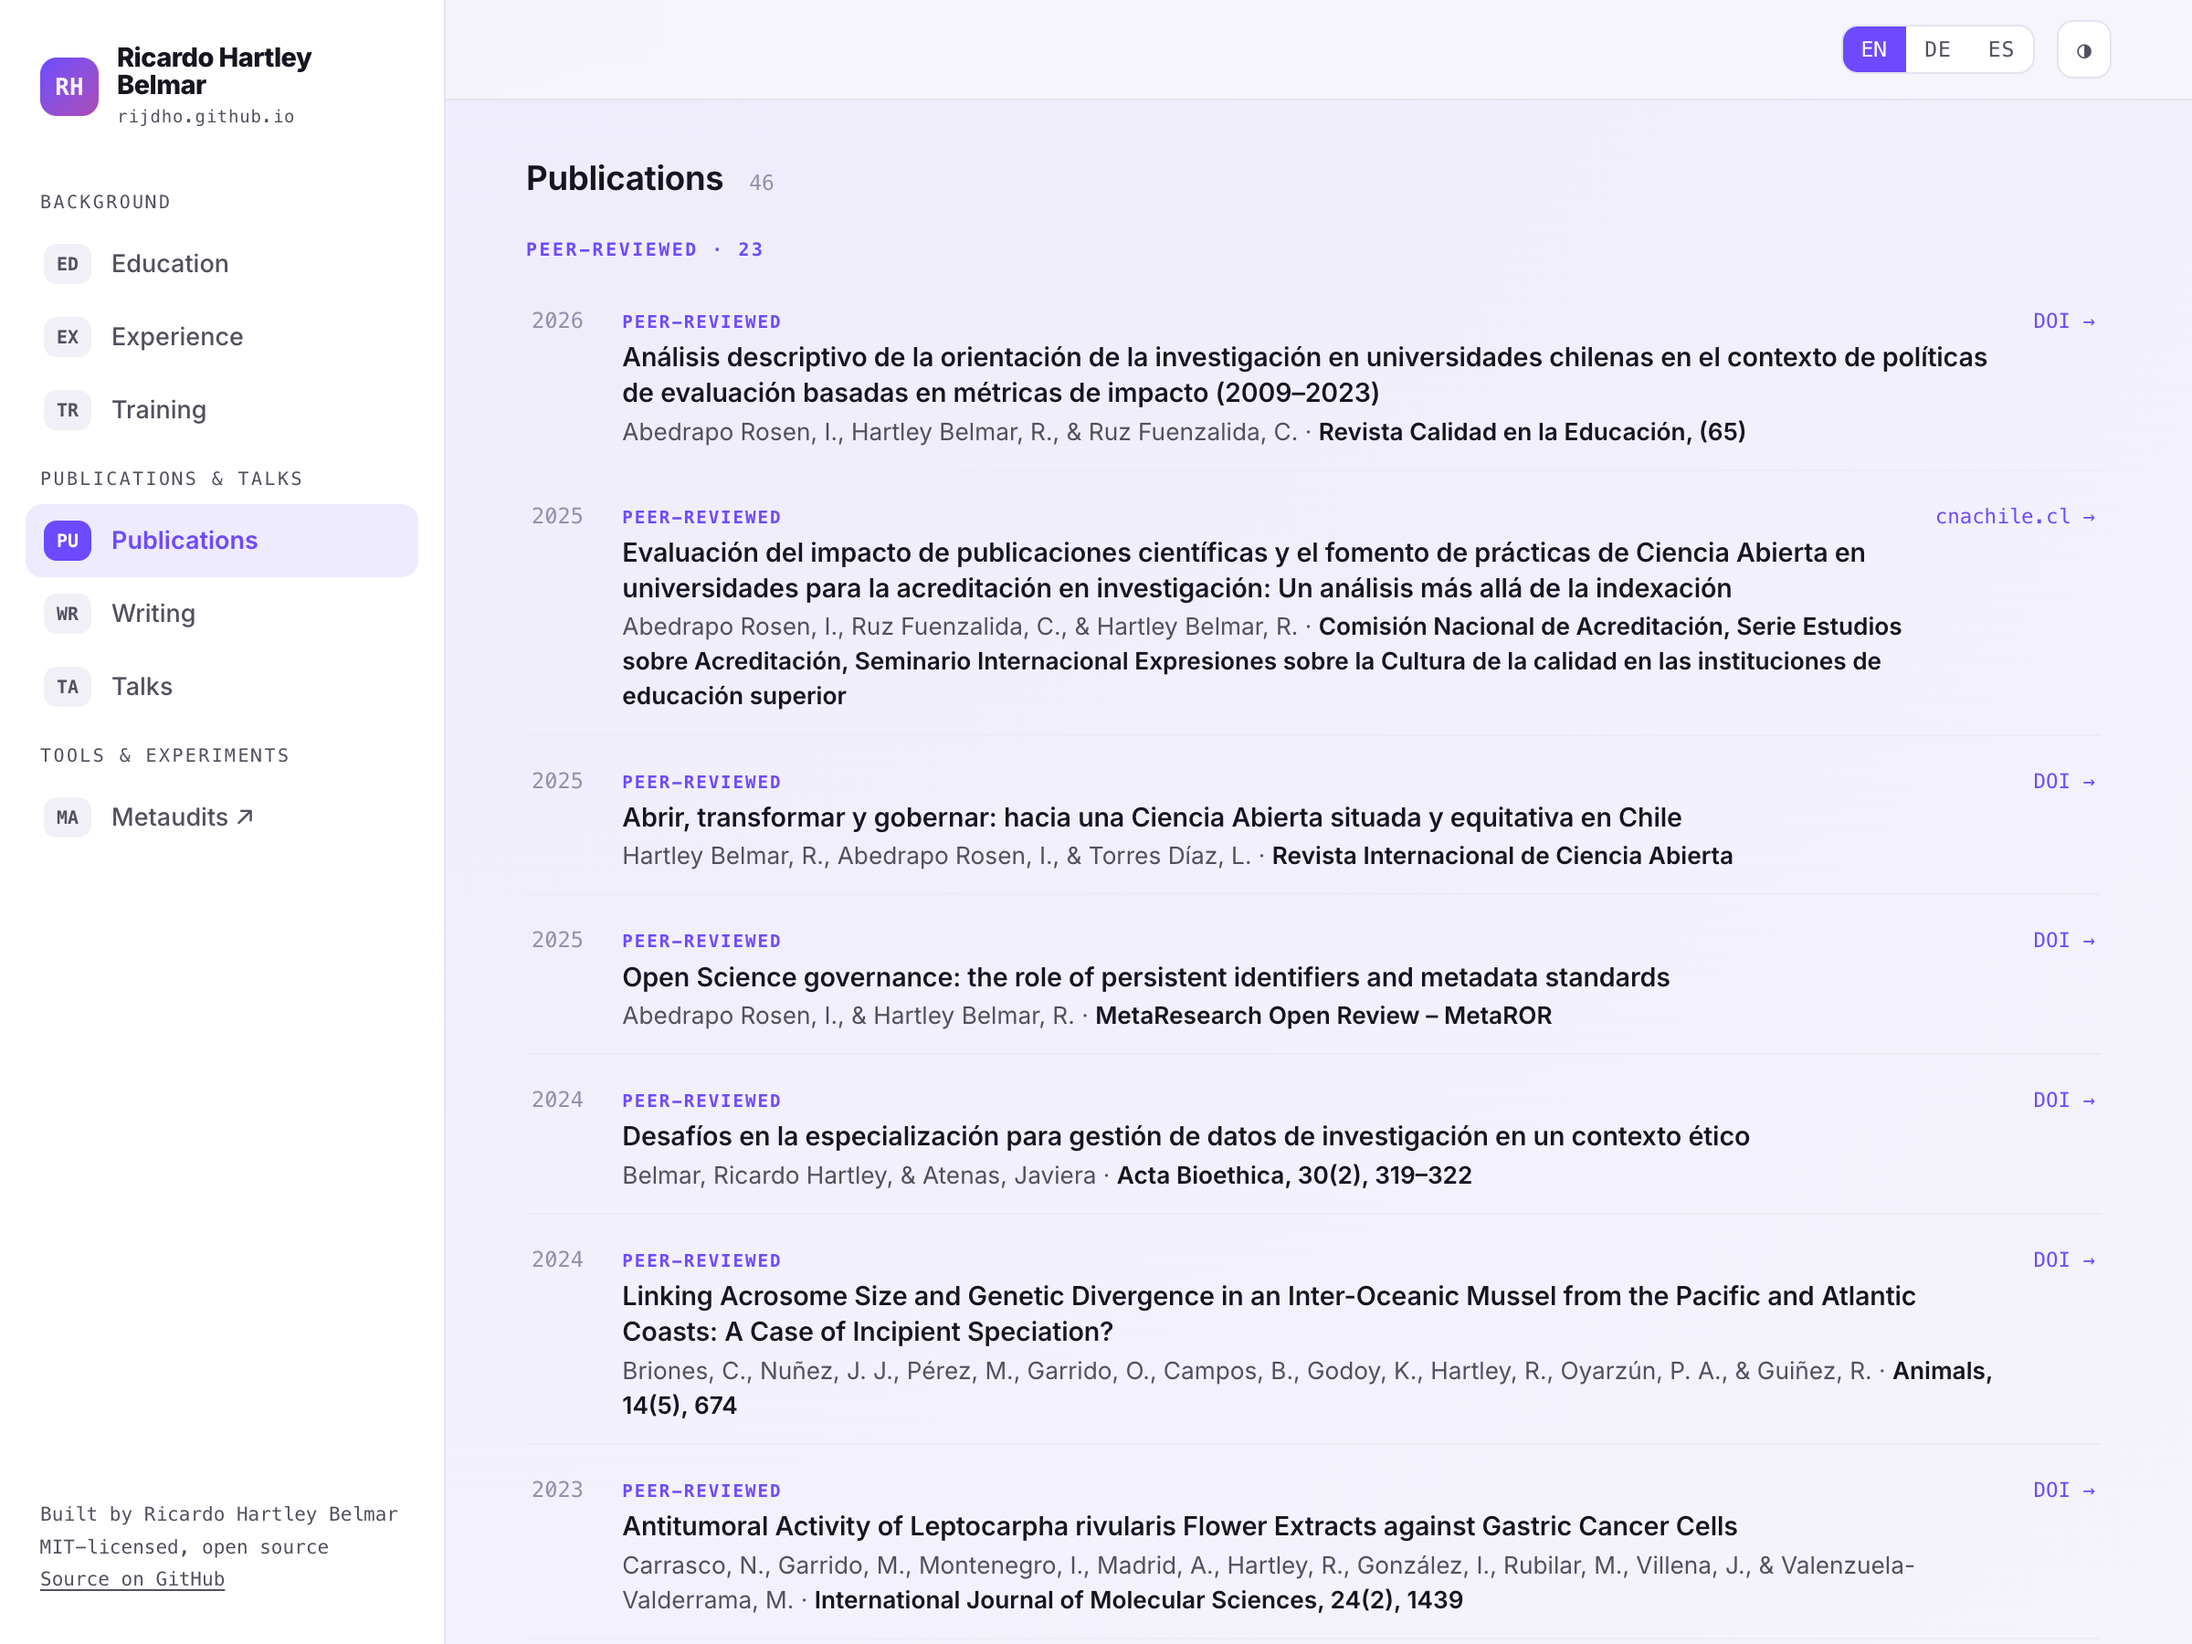
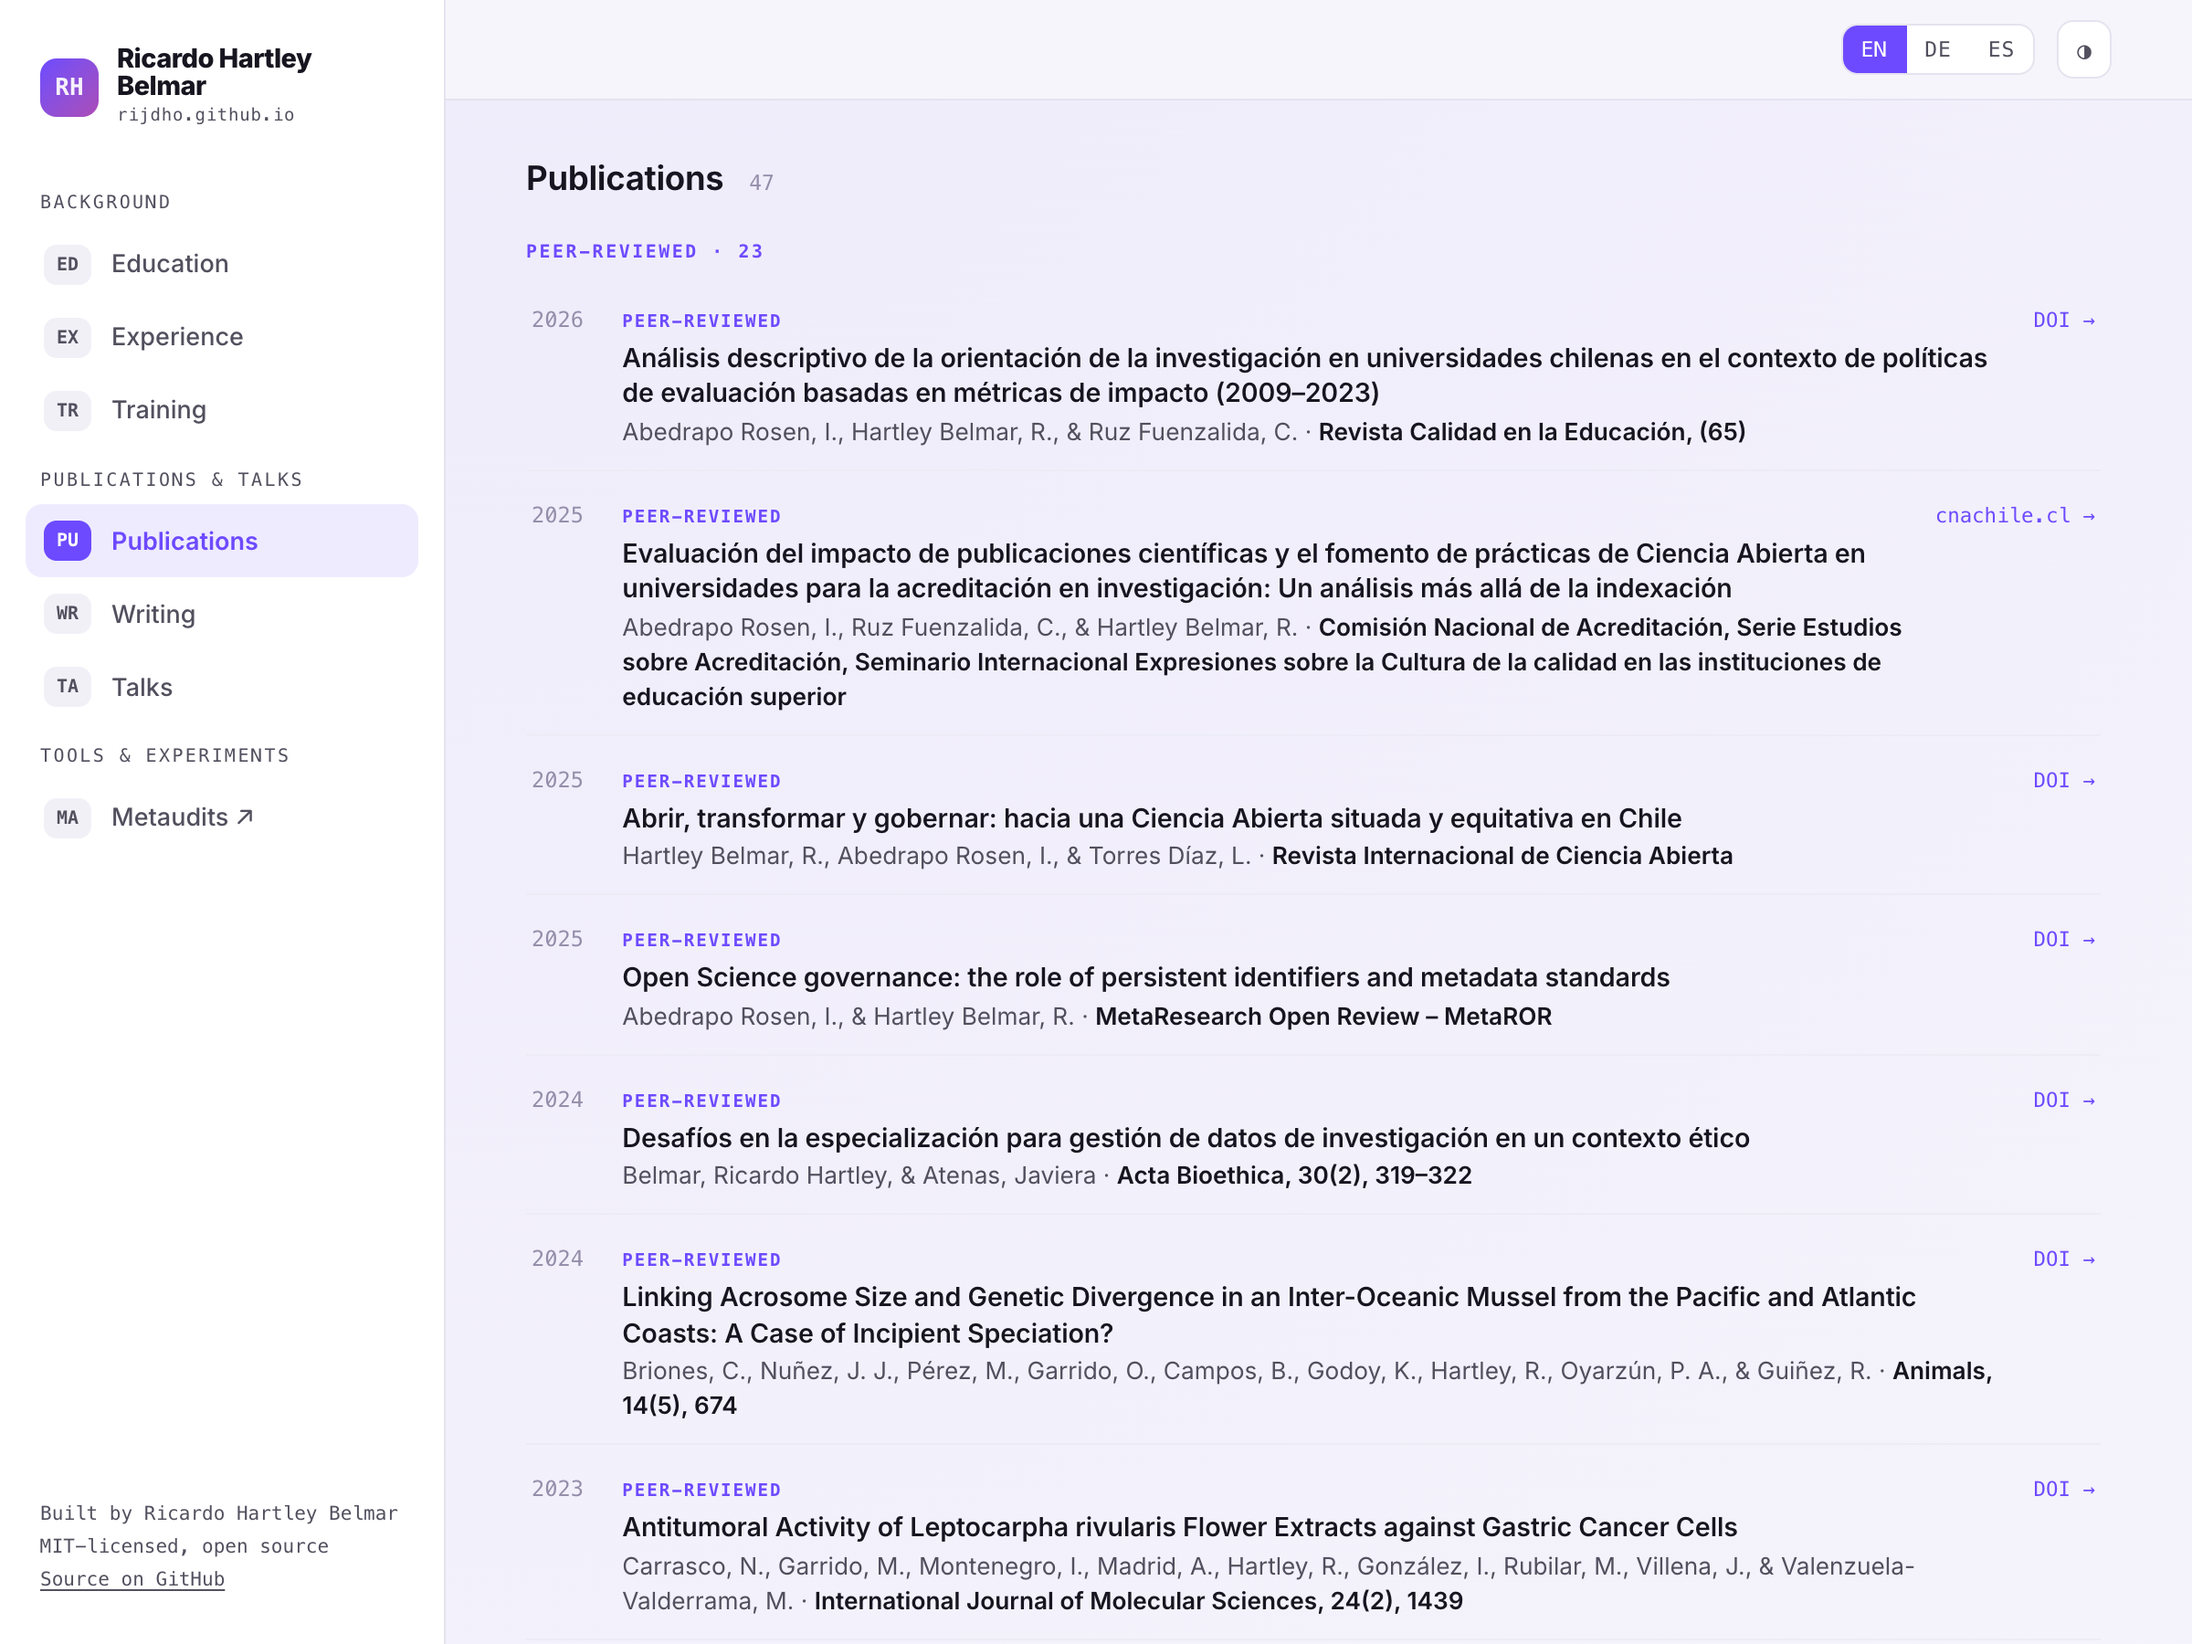
Add Actionable SMP to the tool cloud and the fteval preprint on CoARA action plans
The preprint links to its eprint page: its DOI (10.22163/fteval.2026.771) is not yet
registered at doi.org. README counts and screenshots regenerated (24 ovals, 47 publications).

diff --git a/README.md b/README.md
@@ -13,25 +13,25 @@ from this origin.
 Available in **English, German and Spanish** (auto-detected, switchable): interface and
 content both, including every long description.
 
-![The tool cloud: 23 ovals grouped into four colour-coded topics, Metadata quality 7,
-Open science policy & assessment 6, Infrastructure & AI 8, Science communication 2. Related projects touch
+![The tool cloud: 24 ovals grouped into four colour-coded topics, Metadata quality 7,
+Open science policy & assessment 7, Infrastructure & AI 8, Science communication 2. Related projects touch
 rather than repel, so FAIR Metadata Check (Extended) sits against FAIR Metadata Check. A dashed outline marks a
-tool whose source is public on GitHub, and a note in the corner says so. Nine ovals carry a Zenodo concept DOI
+tool whose source is public on GitHub, and a note in the corner says so. Ten ovals carry a Zenodo concept DOI
 under the name: FAIR Metadata Check 10.5281/zenodo.21492530, ORCID Affiliation Finder
 10.5281/zenodo.22227424, Research Assessment Reform Planner 10.5281/zenodo.21492548, Value of Open Research Information
 10.5281/zenodo.22231440, Pollen 10.5281/zenodo.22685893, National Metadata Audits 10.5281/zenodo.23498571,
-ORCID Membership 10.5281/zenodo.23498577, Beyond Articles 10.5281/zenodo.23498567 and Actionable DMP
-10.5281/zenodo.23498569.](docs/hub-cloud.png)
+ORCID Membership 10.5281/zenodo.23498577, Beyond Articles 10.5281/zenodo.23498567, Actionable DMP
+10.5281/zenodo.23498569 and Actionable SMP 10.5281/zenodo.23797138.](docs/hub-cloud.png)
 
 ## The three views
 
 - **The hub** (`index.html`): two columns. The landing shows the name and headline with the
-  23 tools and experiments under them, as a cloud of ovals grouped by topic (drag, filter,
+  24 tools and experiments under them, as a cloud of ovals grouped by topic (drag, filter,
   click for a description and, where there is one, the link). The rail on the left opens the rest of the CV one section at a
   time: education, experience and training, then publications, writing and talks.
 ![The publications section opened from the rail: the rail on the left lists Background,
 Publications & talks and a link to Metaudits, with Publications highlighted. The main column
-shows the heading Publications 46, then the peer-reviewed group, each row labelled
+shows the heading Publications 47, then the peer-reviewed group, each row labelled
 "Peer-reviewed" above its title. The chip on the right names what the link actually resolves
 to: "DOI" only for a real doi.org address, otherwise the bare host, so the first row, the 2026
 paper in Revista Calidad en la Educación, reads DOI and the second, the CNA seminar paper,

diff --git a/CV.es.md b/CV.es.md
@@ -146,6 +146,7 @@ Profesional de apoyo para la acreditación de programas de postgrado, en la Vice
 
 ### Preprints
 
+- Hartley Belmar, R., & Schöpf, V. (2026). [What CoARA Action Plans Commit To](https://repository.fteval.at/id/eprint/853/). *fteval Preprints, working paper (submitted)*.
 - Hartley, R., Priego, E., Tobar, D., Pérez Comisso, M., & Gainza, C. (2017). [¿Abrir o no abrir? Nuevos pasos del Movimiento Open en Chile](https://doi.org/10.22541/au.151379546.63292744). *Authorea*.
 - Priego, E., Posada, A., Hartley, R., Rodríguez Ortega, N., Fiormonte, D., Gil, A., Logan, C., Alperin, J. P., Mounce, R., Eglen, S. J., Miranda Trigueros, E., Lawson, S., Gatto, L., Ramos, A., & Pérez, N. (2017). [Scholarly Publishing, Freedom of Information and Academic Self-Determination: The UNAM-Elsevier Case](https://doi.org/10.22541/au.151160332.22737207). *Authorea*.
 
@@ -320,6 +321,11 @@ Completitud de los metadatos de los resultados de investigación chilenos que no
 
 Escribe un plan de gestión de datos como archivo accionable por máquina, válido según el RDA DMP Common Standard v1.2, respondiendo las quince preguntas de los requisitos básicos de Science Europe, y contrasta lo que el plan dice de cada dataset con el registro del dataset en DataCite, cuando DataCite lo tiene. El plan se descarga como dmp.json y como DMP.md, en las secciones de Science Europe o en las de la plantilla de Horizon Europe; la misma revisión corre desde la línea de comandos y como GitHub Action.
 
+### [Actionable SMP: Write and Check a Software Management Plan](https://rijdho.github.io/smp-template/)
+*Active · 2026 · Software Management Plans, Research software, GitHub Action*
+
+Escribe un plan de gestión de software con las preguntas, los requisitos y los niveles de gestión de la Practical guide to Software Management Plans (Martinez-Ortiz et al., 2023), guardado como smp.json para el repositorio y como SMP.md para las personas, y lo contrasta con el software: cada compromiso que el plan marca como implementado, como una licencia o un archivo de citación, tiene que verse en el repositorio público de GitHub. La misma revisión corre desde la línea de comandos y como GitHub Action que hace fallar el build cuando falta un compromiso.
+
 ### [Pollen: Live Audience Questions](https://pollen.rijdho.org)
 *Active · 2026 · Live polling, Audience response, Teaching, Cloudflare Workers*
 
@@ -327,4 +333,4 @@ Preguntas en vivo durante una clase o un taller: opción múltiple, escalas de v
 
 
 ---
-*Generado desde data/cv.json · 2026-10-22*
+*Generado desde data/cv.json · 2026-11-06*

diff --git a/CV.de.md b/CV.de.md
@@ -146,6 +146,7 @@ Fachkraft zur Unterstützung der Akkreditierung von Postgraduiertenprogrammen im
 
 ### Preprints
 
+- Hartley Belmar, R., & Schöpf, V. (2026). [What CoARA Action Plans Commit To](https://repository.fteval.at/id/eprint/853/). *fteval Preprints, working paper (submitted)*.
 - Hartley, R., Priego, E., Tobar, D., Pérez Comisso, M., & Gainza, C. (2017). [¿Abrir o no abrir? Nuevos pasos del Movimiento Open en Chile](https://doi.org/10.22541/au.151379546.63292744). *Authorea*.
 - Priego, E., Posada, A., Hartley, R., Rodríguez Ortega, N., Fiormonte, D., Gil, A., Logan, C., Alperin, J. P., Mounce, R., Eglen, S. J., Miranda Trigueros, E., Lawson, S., Gatto, L., Ramos, A., & Pérez, N. (2017). [Scholarly Publishing, Freedom of Information and Academic Self-Determination: The UNAM-Elsevier Case](https://doi.org/10.22541/au.151160332.22737207). *Authorea*.
 
@@ -320,6 +321,11 @@ Vollständigkeit der Metadaten chilenischer Forschungsergebnisse jenseits von Ar
 
 Schreibt einen Datenmanagementplan als maschinenverarbeitbare Datei, die dem RDA DMP Common Standard v1.2 entspricht, entlang der fünfzehn Fragen der Kernanforderungen von Science Europe, und prüft, was der Plan über jeden Datensatz sagt, an dessen Eintrag in DataCite, sofern DataCite ihn führt. Der Plan lässt sich als dmp.json und als DMP.md herunterladen, in den Abschnitten von Science Europe oder denen der Horizon-Europe-Vorlage; dieselbe Prüfung läuft auf der Kommandozeile und als GitHub Action.
 
+### [Actionable SMP: Write and Check a Software Management Plan](https://rijdho.github.io/smp-template/)
+*Active · 2026 · Software Management Plans, Research software, GitHub Action*
+
+Schreibt einen Softwaremanagementplan mit den Fragen, Anforderungen und Managementstufen des Practical guide to Software Management Plans (Martinez-Ortiz et al., 2023), gespeichert als smp.json für das Repository und als SMP.md für Menschen, und prüft ihn an der Software: Jede Zusage, die der Plan als umgesetzt markiert, etwa eine Lizenz oder eine Zitationsdatei, muss im öffentlichen GitHub-Repository sichtbar sein. Dieselbe Prüfung läuft auf der Kommandozeile und als GitHub Action, die den Build scheitern lässt, wenn eine Zusage fehlt.
+
 ### [Pollen: Live Audience Questions](https://pollen.rijdho.org)
 *Active · 2026 · Live polling, Audience response, Teaching, Cloudflare Workers*
 
@@ -327,4 +333,4 @@ Live-Fragen während einer Lehrveranstaltung oder eines Workshops: Auswahlfragen
 
 
 ---
-*Generiert aus data/cv.json · 2026-10-22*
+*Generiert aus data/cv.json · 2026-11-06*

diff --git a/CV.en.md b/CV.en.md
@@ -146,6 +146,7 @@ Support professional for the accreditation of postgraduate programmes, working w
 
 ### Preprints
 
+- Hartley Belmar, R., & Schöpf, V. (2026). [What CoARA Action Plans Commit To](https://repository.fteval.at/id/eprint/853/). *fteval Preprints, working paper (submitted)*.
 - Hartley, R., Priego, E., Tobar, D., Pérez Comisso, M., & Gainza, C. (2017). [¿Abrir o no abrir? Nuevos pasos del Movimiento Open en Chile](https://doi.org/10.22541/au.151379546.63292744). *Authorea*.
 - Priego, E., Posada, A., Hartley, R., Rodríguez Ortega, N., Fiormonte, D., Gil, A., Logan, C., Alperin, J. P., Mounce, R., Eglen, S. J., Miranda Trigueros, E., Lawson, S., Gatto, L., Ramos, A., & Pérez, N. (2017). [Scholarly Publishing, Freedom of Information and Academic Self-Determination: The UNAM-Elsevier Case](https://doi.org/10.22541/au.151160332.22737207). *Authorea*.
 
@@ -320,6 +321,11 @@ Metadata completeness of Chilean research outputs other than articles (datasets,
 
 Write a data management plan as a machine-actionable file that validates against the RDA DMP Common Standard v1.2, answering the fifteen questions of Science Europe's core requirements, and check what the plan says about each dataset against the dataset's DataCite record, where DataCite holds it. The plan downloads as dmp.json and as DMP.md, in Science Europe's sections or in those of the Horizon Europe template; the same check runs from the command line and as a GitHub Action.
 
+### [Actionable SMP: Write and Check a Software Management Plan](https://rijdho.github.io/smp-template/)
+*Active · 2026 · Software Management Plans, Research software, GitHub Action*
+
+Write a software management plan with the questions, requirements and management levels of the Practical guide to Software Management Plans (Martinez-Ortiz et al., 2023), saved as smp.json for the repository and as SMP.md for people, and check it against the software: every commitment the plan marks as in place, such as a licence or a citation file, has to be visible in the public GitHub repository. The same check runs from the command line and as a GitHub Action that fails the build when a commitment is missing.
+
 ### [Pollen: Live Audience Questions](https://pollen.rijdho.org)
 *Active · 2026 · Live polling, Audience response, Teaching, Cloudflare Workers*
 
@@ -327,4 +333,4 @@ Live questions during a lecture or a workshop: multiple choice, rating scales, r
 
 
 ---
-*Generated from data/cv.json · 2026-10-22*
+*Generated from data/cv.json · 2026-11-06*

diff --git a/CLAUDE.md b/CLAUDE.md
@@ -131,7 +131,7 @@ messages. There is no Zenodo integration here, so no `CITATION.cff` belongs in t
 README images come from `docs/screenshots.mjs`, which drives the real pages, never a
 hand-cropped grab, which cannot be regenerated and ages into a lie. It seeds `Math.random`
 and emulates `prefers-reduced-motion` so the cloud's physics settle identically each run;
-without that, every regeneration reshuffles the ovals (23 of them) and the diff is noise. Puppeteer is a
+without that, every regeneration reshuffles the ovals (24 of them) and the diff is noise. Puppeteer is a
 tooling-only dependency and the site keeps no `package.json`.
 
 ## Before going/staying public: the leak sweep
